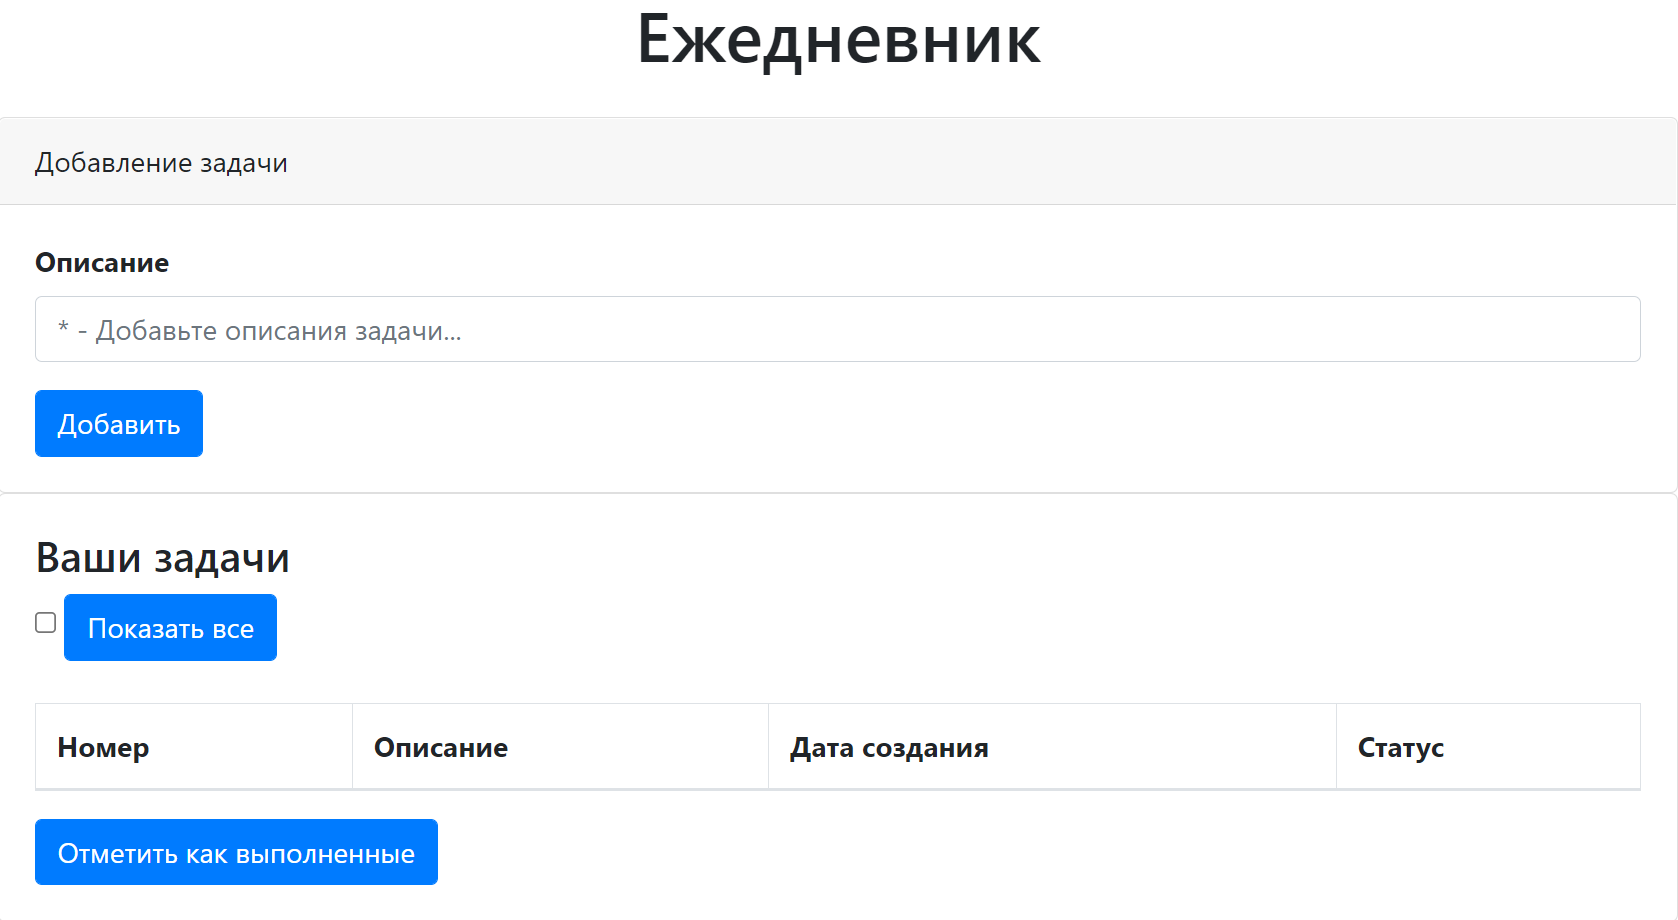
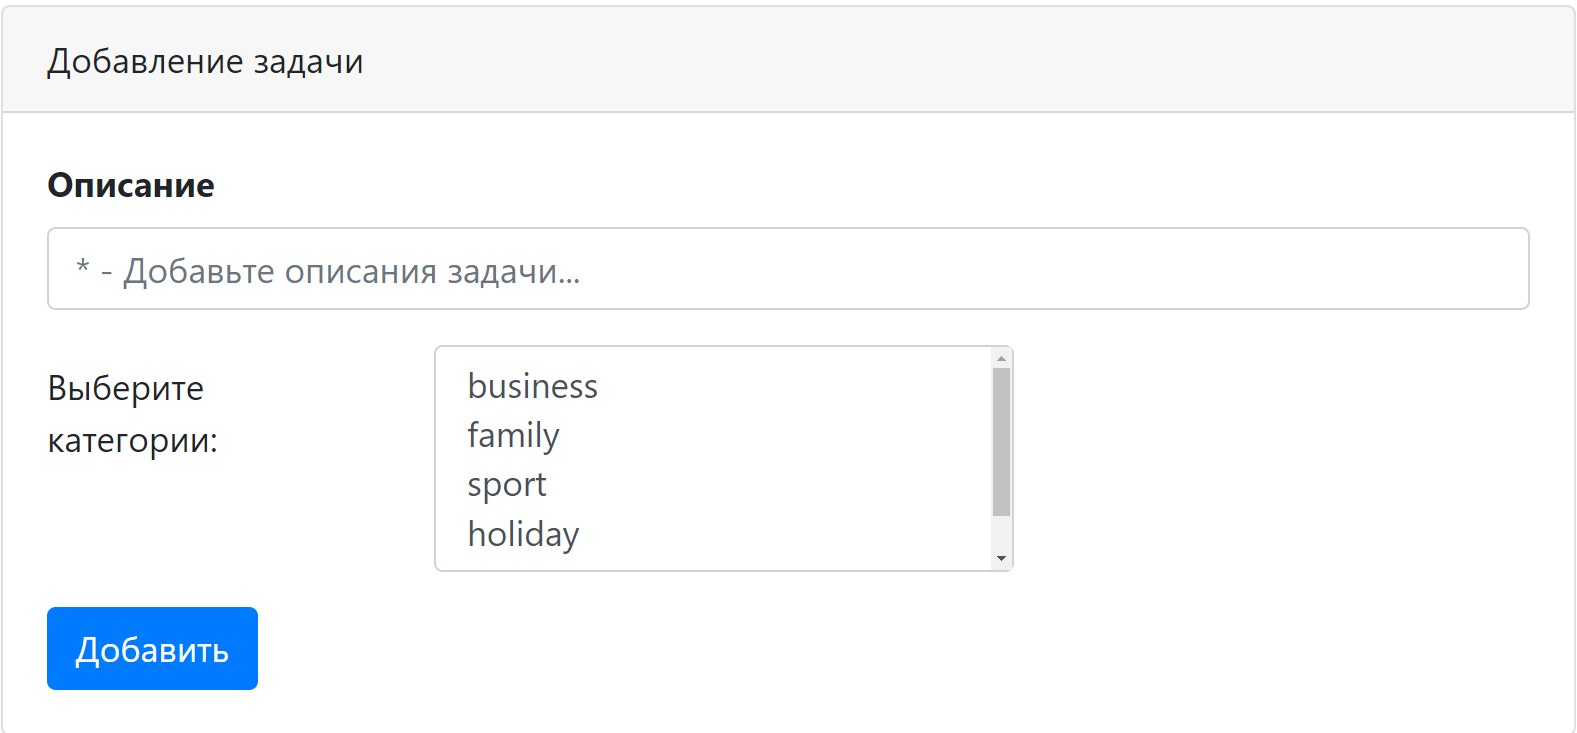
4. Категории в TODO List

diff --git a/src/main/webapp/scripts/script.js b/src/main/webapp/scripts/script.js
@@ -1,7 +1,8 @@
 function validate() {
-    let message = '* - обязательные для заполнения поля'
+    let message = 'Введите описание задачи или добавьте категорию'
     let description = $('#description').val();
-    if (description === '') {
+    let category = $('#cIds').val();
+    if (description === '' || category === '') {
         alert(message);
         return false;
     }
@@ -17,9 +18,14 @@ $(document).ready(function () {
     req.done(function (data) {
         let items = ""
         for (let i = 0; i < data.length; i++) {
+            let category = ""
+            for (let j = 0; j < data[i]["categories"].length; j++ ) {
+                category += data[i]["categories"][j]["name"] + " ";
+            }
             items += "<tr>"
                 + "<td>" + data[i]["id"] + "</td>"
                 + "<td>" + data[i]["description"] + "</td>"
+                + "<td>" + category + "</td>"
                 + "<td>" + data[i]["created"] + "</td>"
                 + "<td>" + "Необходимо выполнить  "
                 + "<input type='checkbox' id='setStatus' value=" + data[i]["id"] + ">"
@@ -27,20 +33,7 @@ $(document).ready(function () {
                 + "</tr>"
         }
         $('#items').html(items);
-        $('input:checked:not(:disabled)').each(function () {
-            for (let i = 0; i < data.length; i++) {
-                $('#items').append(
-                    "<tr>"
-                    + "<td>" + data[i]["description"] + "</td>"
-                    + "<td>" + data[i]["created"] + "</td>"
-                    + "<td>" + "Выполнено  "
-                    + "<input disabled type='checkbox' id='setStatus' checked value=" + data[i]["id"] + ">"
-                    + "</td>"
-                    + "</tr>");
-            }
-        });
     });
-    $('#items').html(items);
 })
 
 function addItem() {
@@ -48,7 +41,7 @@ function addItem() {
         $.ajax({
                 method: 'POST',
                 url: './add',
-                data: {desc: $("#description").val()},
+                data: {desc: $("#description").val(), categoryIds: $('#cIds').val().join(",")},
                 dataType: 'json'
             }
         );
@@ -91,9 +84,14 @@ function showAll() {
         req.done(function (data) {
             let items = ""
             for (let i = 0; i < data.length; i++) {
+                let category = ""
+                for (let j = 0; j < data[i]["categories"].length; j++ ) {
+                    category += data[i]["categories"][j]["name"] + " ";
+                }
                 items += "<tr>"
                     + "<td>" + data[i]["id"] + "</td>"
                     + "<td>" + data[i]["description"] + "</td>"
+                    + "<td>" + category + "</td>"
                     + "<td>" + data[i]["created"] + "</td>"
                     + "<td>" + data[i]["done"] + "</td>"
                     + "</td>"

diff --git a/src/main/webapp/index.html b/src/main/webapp/index.html
@@ -22,7 +22,8 @@
     <link rel="stylesheet" href="https://cdnjs.cloudflare.com/ajax/libs/font-awesome/4.7.0/css/font-awesome.min.css">
     <script src="https://ajax.googleapis.com/ajax/libs/jquery/3.3.1/jquery.min.js"></script>
 </head>
-<script src="script.js"></script>
+<script src="scripts/script.js"></script>
+<script src="scripts/showCategory.js"></script>
 <body>
 <div class="container-fluid" style="text-align: center">
     <h1>Ежедневник </h1>
@@ -38,6 +39,12 @@
                     <div class="form-group">
                         <label for="description" style="font-weight: bold">Описание</label>
                         <input type="text" class="form-control" id="description" placeholder="* - Добавьте описания задачи...">
+                    </div>
+                    <div class="form-group row" >
+                        <label class="col-form-label col-sm-3" for="cIds" >Выберите категории: </label>
+                        <div class="col-sm-5">
+                            <select class="form-control" id="cIds" multiple required></select>
+                        </div>
                     </div>
                     <button type="button" class="btn btn-primary" onclick="addItem()">Добавить</button>
                 </form>
@@ -57,6 +64,7 @@
                         <tr>
                             <th>Номер</th>
                             <th>Описание</th>
+                            <th>Категория</th>
                             <th>Дата создания</th>
                             <th>Статус</th>
                         </tr>

diff --git a/src/main/webapp/scripts/showCategory.js b/src/main/webapp/scripts/showCategory.js
@@ -1,0 +1,14 @@
+const req = $.ajax({
+    type: "POST",
+    url: "./categories",
+    dataType: "json"
+})
+req.done(function (data) {
+    let categories = ""
+    for (let i = 0; i < data.length; i++) {
+        categories += "<option value="+data[i]["id"]+">"
+            + data[i]["name"]
+            + "</option>>"
+    }
+    $('#cIds').html(categories)
+})

diff --git a/src/main/java/ru/job4j/todo/stores/HibernateStore.java b/src/main/java/ru/job4j/todo/stores/HibernateStore.java
@@ -6,7 +6,10 @@ import org.hibernate.Transaction;
 import org.hibernate.boot.MetadataSources;
 import org.hibernate.boot.registry.StandardServiceRegistry;
 import org.hibernate.boot.registry.StandardServiceRegistryBuilder;
+import ru.job4j.todo.model.Category;
 import ru.job4j.todo.model.Item;
+
+import java.util.ArrayList;
 import java.util.List;
 import java.util.function.Function;
 
@@ -23,8 +26,14 @@ public class HibernateStore implements Store {
     }
 
     @Override
-    public void addItem(Item item) {
-        transaction(session -> session.save(item));
+    public void addItem(Item item, String[] categories) {
+        transaction(session -> {
+            for (String id : categories) {
+                item.addCategory(session.load(Category.class, Integer.parseInt(id)));
+            }
+            session.save(item);
+            return null;
+        });
     }
 
     @Override
@@ -40,12 +49,29 @@ public class HibernateStore implements Store {
 
     @Override
     public List<Item> getAllItems() {
-        return (List<Item>) transaction(session -> session.createQuery("from Item").list());
+        return transaction(session -> {
+            List<Item> items;
+            items = session.createQuery(
+                    "select distinct i from Item i join fetch i.categories"
+            ).list();
+            return items;
+        });
     }
 
     @Override
     public List<Item> getAllNotDoneItems() {
-        return (List<Item>) transaction(session -> session.createQuery("from Item i where i.done = false").list());
+        return  transaction(session -> {
+            List<Item> items;
+            items = session.createQuery(
+                    "select distinct i from Item i join fetch i.categories where i.done = false"
+            ).list();
+            return items;
+        });
+    }
+
+    @Override
+    public List<Category> getAllCategories() {
+        return (List<Category>) transaction(session -> session.createQuery("from Category").list());
     }
 
     private <T> T transaction(final Function<Session, T> command) {

diff --git a/src/main/java/ru/job4j/todo/model/Category.java b/src/main/java/ru/job4j/todo/model/Category.java
@@ -1,0 +1,59 @@
+package ru.job4j.todo.model;
+
+import javax.persistence.*;
+import java.util.Objects;
+
+@Entity
+@Table(name = "categories")
+public class Category {
+    @Id
+    @GeneratedValue(strategy = GenerationType.IDENTITY)
+    private int id;
+    private String name;
+
+    public Category() {
+    }
+
+    public Category(String name) {
+        this.name = name;
+    }
+
+    public int getId() {
+        return id;
+    }
+
+    public void setId(int id) {
+        this.id = id;
+    }
+
+    public String getName() {
+        return name;
+    }
+
+    public void setName(String name) {
+        this.name = name;
+    }
+
+    @Override
+    public boolean equals(Object o) {
+        if (this == o) {
+            return true;
+        }
+        if (o == null || getClass() != o.getClass()) {
+            return false;
+        }
+        Category category = (Category) o;
+        return id == category.id
+                && Objects.equals(name, category.name);
+    }
+
+    @Override
+    public int hashCode() {
+        return Objects.hash(id, name);
+    }
+
+    @Override
+    public String toString() {
+        return String.format("Category: name=%s", name);
+    }
+}

diff --git a/src/main/java/ru/job4j/todo/model/Item.java b/src/main/java/ru/job4j/todo/model/Item.java
@@ -2,7 +2,9 @@ package ru.job4j.todo.model;
 
 import javax.persistence.*;
 import java.sql.Timestamp;
+import java.util.ArrayList;
 import java.util.Date;
+import java.util.List;
 import java.util.Objects;
 
 @Entity
@@ -14,6 +16,9 @@ public class Item {
     private String description;
     private Timestamp created;
     private boolean done;
+    @ManyToMany(cascade = {CascadeType.PERSIST, CascadeType.MERGE})
+    @JoinColumn(name = "category_id")
+    private List<Category> categories = new ArrayList<>();
 
     public Item() {
     }
@@ -55,6 +60,10 @@ public class Item {
         this.done = done;
     }
 
+    public void addCategory(Category category) {
+        categories.add(category);
+    }
+
     @Override
     public boolean equals(Object o) {
         if (this == o) {
@@ -70,5 +79,12 @@ public class Item {
     @Override
     public int hashCode() {
         return Objects.hash(id);
+    }
+
+    @Override
+    public String toString() {
+        return String.format(
+                "Item: id=%s, description=%s, created=%s, categories=%s, done=%s,",
+                id, description, created, categories, done);
     }
 }

diff --git a/src/main/java/ru/job4j/todo/servlets/ShowCategories.java b/src/main/java/ru/job4j/todo/servlets/ShowCategories.java
@@ -1,5 +1,7 @@
 package ru.job4j.todo.servlets;
 
+import com.google.gson.Gson;
+import ru.job4j.todo.model.Category;
 import ru.job4j.todo.model.Item;
 import ru.job4j.todo.stores.HibernateStore;
 
@@ -8,13 +10,16 @@ import javax.servlet.http.HttpServlet;
 import javax.servlet.http.HttpServletRequest;
 import javax.servlet.http.HttpServletResponse;
 import java.io.IOException;
+import java.util.List;
 
-public class AddItemServlet extends HttpServlet {
+public class ShowCategories extends HttpServlet {
 
     @Override
     protected void doPost(HttpServletRequest req, HttpServletResponse resp) throws ServletException, IOException {
         req.setCharacterEncoding("UTF-8");
-        String[] categoriesId = req.getParameter("categoryIds").split(",");
-        HibernateStore.instOf().addItem(new Item(req.getParameter("desc")), categoriesId);
+        List<Category> categories = HibernateStore.instOf().getAllCategories();
+        String json = new Gson().toJson(categories);
+        resp.setContentType("json");
+        resp.getWriter().write(json);
     }
 }

diff --git a/src/main/java/ru/job4j/todo/stores/Store.java b/src/main/java/ru/job4j/todo/stores/Store.java
@@ -1,16 +1,19 @@
 package ru.job4j.todo.stores;
 
+import ru.job4j.todo.model.Category;
 import ru.job4j.todo.model.Item;
 
 import java.util.List;
 
 public interface Store {
 
-    void addItem(Item item);
+    void addItem(Item item, String[] categories);
 
     void noteItemAsDone(int id);
 
     List<Item> getAllItems();
 
     List<Item> getAllNotDoneItems();
+
+    List<Category> getAllCategories();
 }
